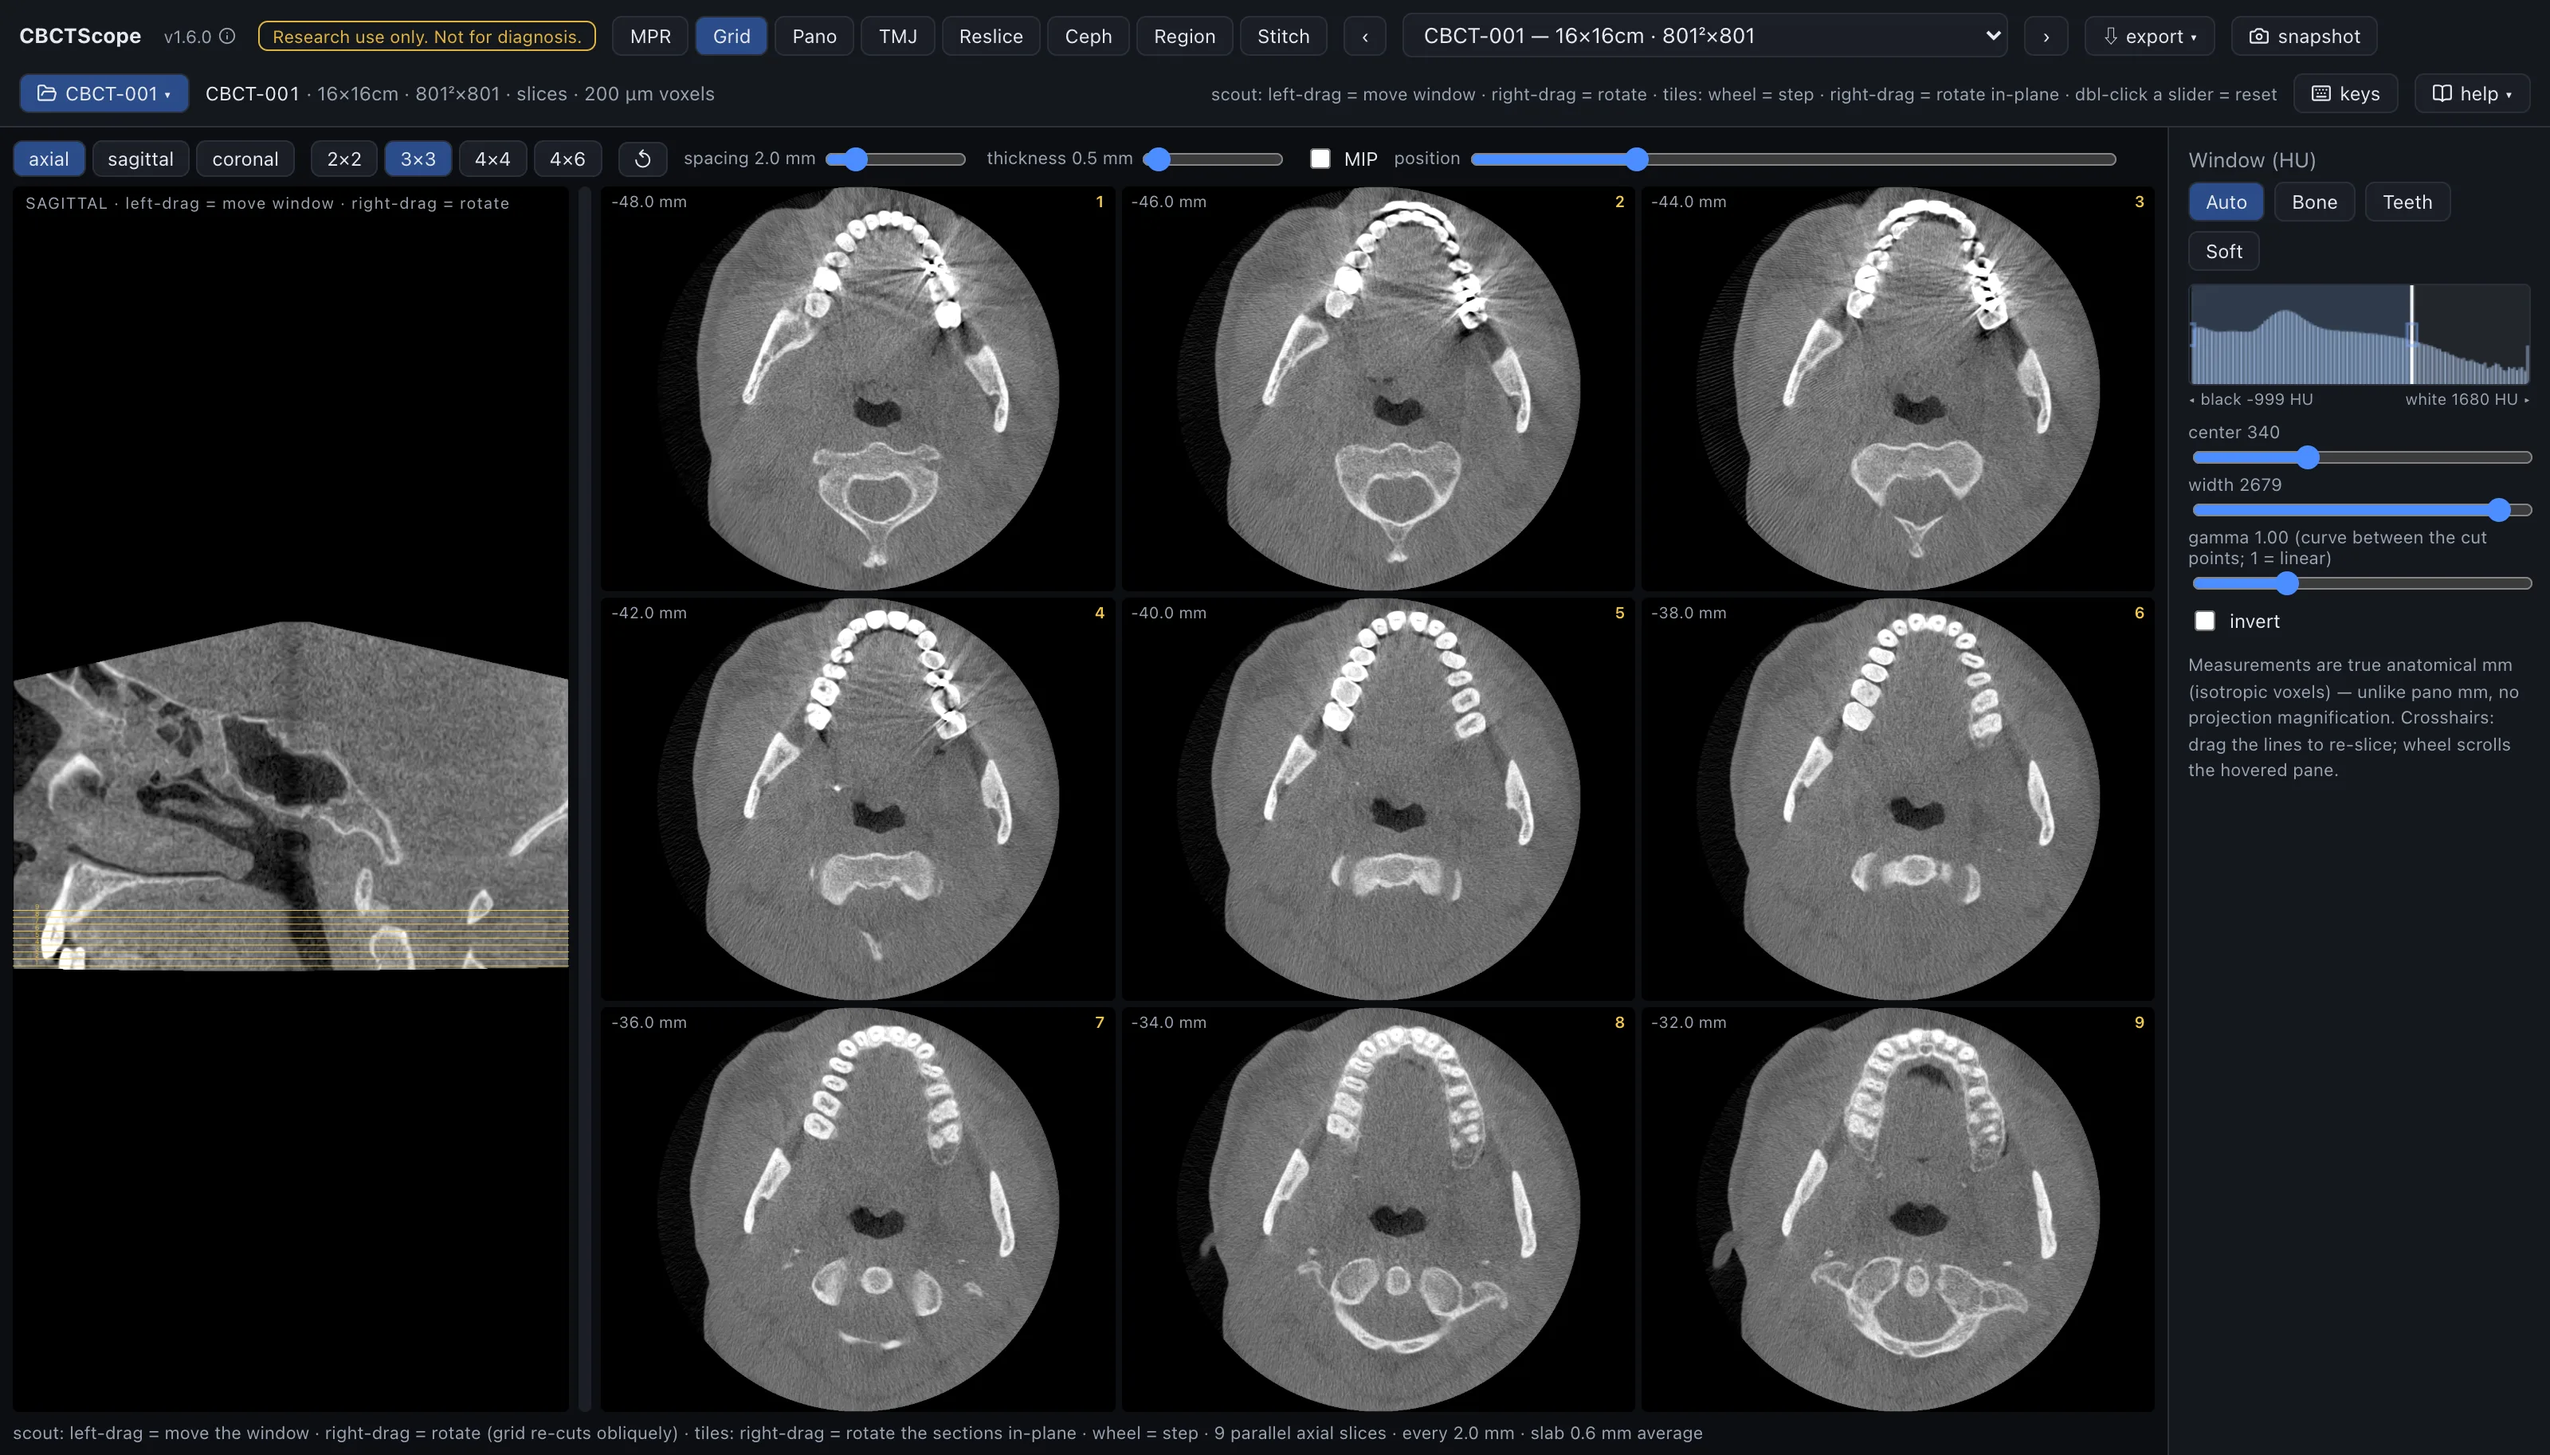
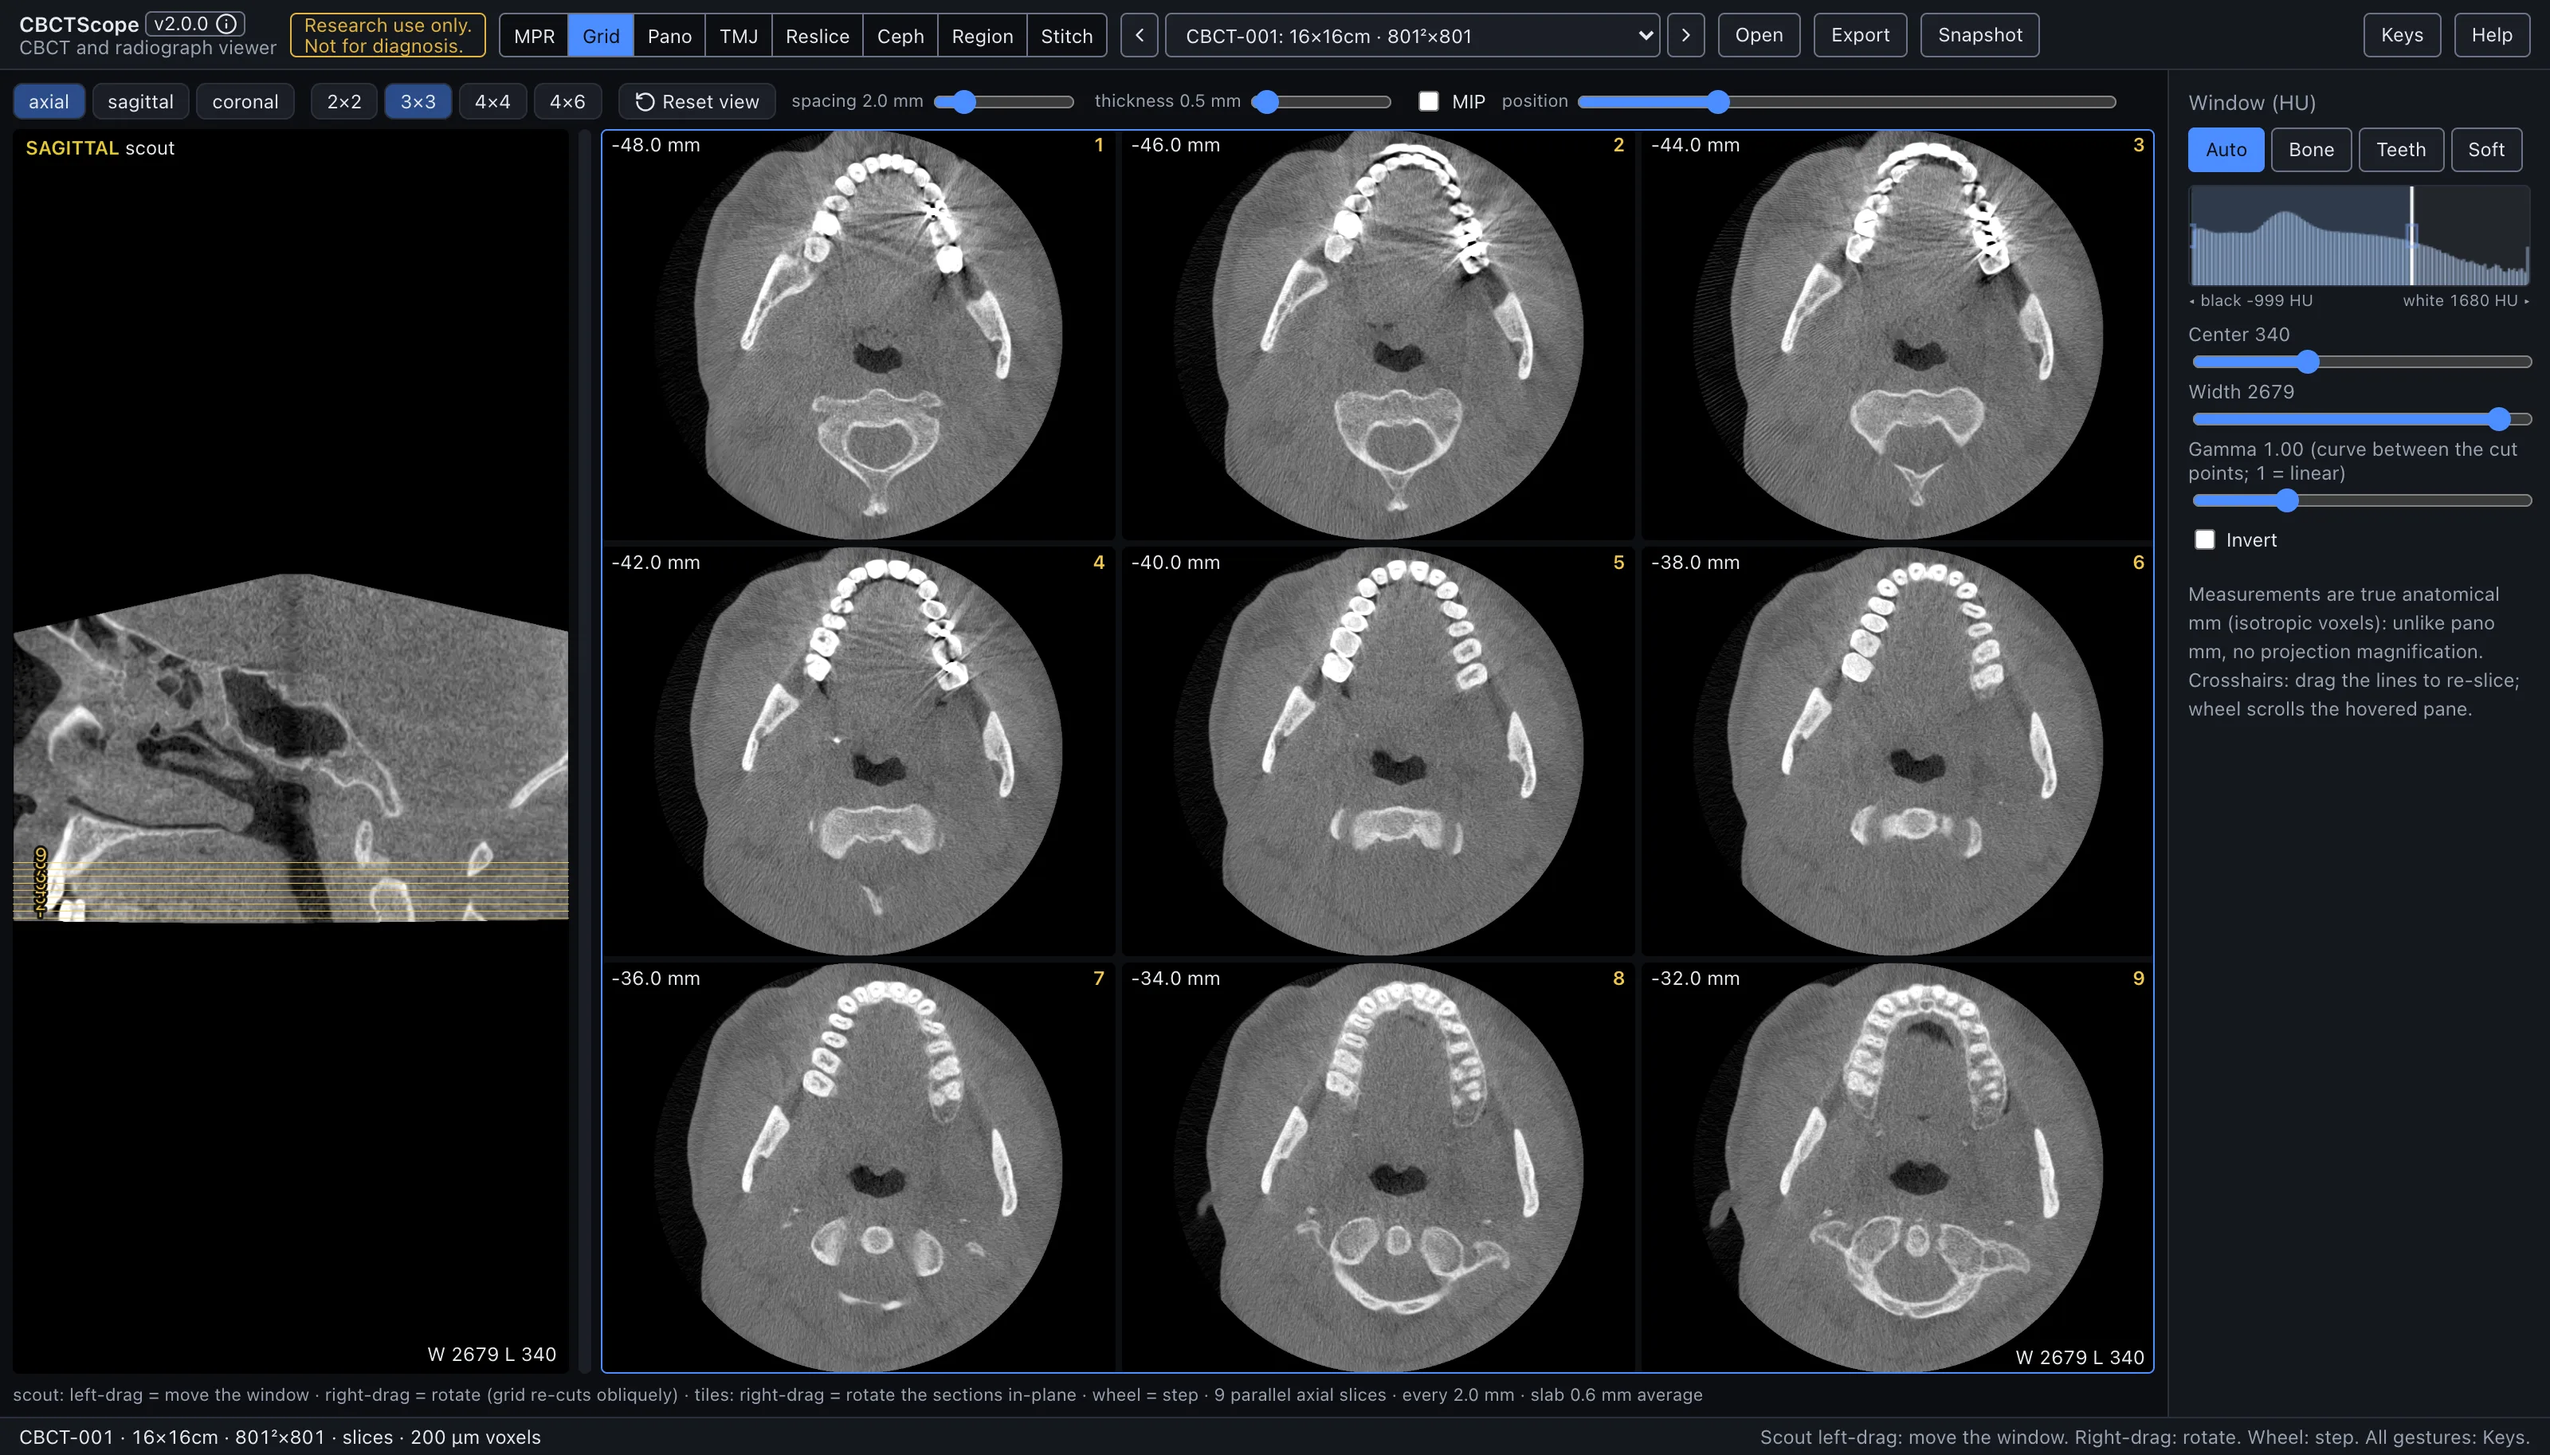
The manual's nine stills, the four README thumbnails and the agent GIF are recaptured on the redesigned interface, and manual-shots.mjs drives it by pane-relative image fractions and slice levels instead of screen pixels
The header still now carries callouts 1 to 9 above the controls of the one-row header,
clipped from the full layout so no pane overlay rises into it; chapter 3 says that Agent (10)
and the desktop download (11) appear only on the website and in the desktop app. The script
selects the params volume itself, runs Chrome incognito with the HTTP cache off (a profile's
disk cache stalled every request on macOS 27), sets the 3D pane to the bone Surface style at
the params threshold, and gains a measure plan. The ceph and stitch guides say the turn, nod
and offset show only once off zero; the README MPR thumbnail alt names the skull base. The
web budget is re-measured: the stills grew 30 KB.

Changed region(s): [[0.0, 0.0, 1.0, 0.9989], [0.25, 0.8428, 0.2812, 0.874], [0.25, 0.5931, 0.2812, 0.6243]]

diff --git a/tests/webBudget.test.ts b/tests/webBudget.test.ts
@@ -10,8 +10,12 @@ import { describe, expect, it } from 'vitest';
  * 13): 10_365_588 bytes, of which manual/ is 2_426_806 (its nine WebP stills about 2 MB). The
  * integration pass's figure, 7_791_978 with the real browser loader, is superseded; the pages
  * are a deliberate addition, so the budget moves with them.
+ *
+ * Re-measured 2026-11-11 after the manual's stills were recaptured on the redesigned interface
+ * (the nine WebP stills 2_120_310 bytes, up 30_564): 10_588_932 bytes, of which manual/ is
+ * 2_501_889.
  */
-const MEASURED = 10_365_588;
+const MEASURED = 10_588_932;
 const BUDGET = Math.round(MEASURED * 1.1);
 
 const out = path.join(process.cwd(), 'out');

diff --git a/README.md b/README.md
@@ -57,7 +57,7 @@ control; the neighboring projects, and how they differ, are under
 
 | MPR + 3D | Multi-slice grid | Curved panoramic | TMJ condyles |
 |---|---|---|---|
-| [![MPR: axial, sagittal, coronal and a bone 3D render, crosshairs on a molar, HU windowing, slab and MIP controls](docs/media/thumb-mpr.png)](docs/media/thumb-mpr.png) | [![Grid: nine parallel axial slices through the dentition with a sagittal scout, spacing and thickness controls](docs/media/thumb-grid.png)](docs/media/thumb-grid.png) | [![Pano: arch spline on the axial, curved panoramic of the arch, perpendicular cross-sections](docs/media/thumb-pano.png)](docs/media/thumb-pano.png) | [![TMJ: both condyles in axis-corrected sagittal sections, five per side, with the axis line drawn per condyle on the axial scout](docs/media/thumb-tmj.png)](docs/media/thumb-tmj.png) |
+| [![MPR: axial, sagittal, coronal and a bone 3D render, crosshairs at the skull base, the bone window, slab and MIP controls](docs/media/thumb-mpr.png)](docs/media/thumb-mpr.png) | [![Grid: nine parallel axial slices through the dentition with a sagittal scout, spacing and thickness controls](docs/media/thumb-grid.png)](docs/media/thumb-grid.png) | [![Pano: arch spline on the axial, curved panoramic of the arch, perpendicular cross-sections](docs/media/thumb-pano.png)](docs/media/thumb-pano.png) | [![TMJ: both condyles in axis-corrected sagittal sections, five per side, with the axis line drawn per condyle on the axial scout](docs/media/thumb-tmj.png)](docs/media/thumb-tmj.png) |
 
 *The four stills above are a real CBCT: a 16×16cm, 200 µm Planmeca ProMax
 volume, shown with the written consent of the patient and de-identified before

diff --git a/docs/manual/03-interface.md b/docs/manual/03-interface.md
@@ -8,11 +8,13 @@ close on its answer.
 
 ## 3.1 The header
 
-![The header on the built-in phantom, numbered left to right: the name and what it is, the version button, the research-use badge, the mode tabs, the volume list, Open, Export, Snapshot, Keys, Help, and Agent](../media/manual/header.webp)
+![The header of the local app on the built-in phantom, numbered 1 to 9 left to right: the name with what it is and the version button, the research-use badge, the mode tabs, the volume list, Open, Export, Snapshot, Keys, and Help](../media/manual/header.webp)
 
 The header is one row on a wide screen and wraps onto a second row, whole
-groups at a time, when the window is narrower than its controls. From left to
-right:
+groups at a time, when the window is narrower than its controls. The still
+shows the local app, so it carries callouts 1 to 9; Agent (10) and the desktop
+download (11) join them on the website and, for Agent, in the desktop app. From
+left to right:
 
 1. **CBCTScope**, with what it is under the name:
    **CBCT and radiograph viewer**. Beside it, the **version button** (for example `v2.0.0`).

diff --git a/docs/manual/README.md b/docs/manual/README.md
@@ -34,5 +34,12 @@ phantom with the numbered callouts that match the list in chapter 3;
 `mode-<mode>.webp` shows each mode on the consented, de-identified real CBCT
 that the README stills also use (AGENTS.md hard rule 3: bone-only 3D, the
 cephalogram as densest-only MIP so no soft-tissue profile is projected). The
-script's header at the top documents the run. Recapture after any change to
-the header or to a mode's layout, in the same commit as the change.
+script's header at the top documents the run. The per-volume parameters for
+the real CBCT live beside that volume, outside the repo, in
+`manual-shots-v2.json` (`--params`). They hold no screen coordinates: slice
+levels are the pane's own count, and every point is a fraction of the image in
+a numbered pane (`node scripts/manual-shots.mjs measure` lists the panes), so
+a layout change needs no recalibration. The older `manual-shots.json` beside
+it carries CSS pixels of the v1.6 layout and no longer fits the script.
+Recapture after any change to the header or to a mode's layout, in the same
+commit as the change.

diff --git a/docs/reading-modes/ceph.md b/docs/reading-modes/ceph.md
@@ -37,7 +37,7 @@ when you let go. The current turn and tilt are shown on the image.
 
 | Control | Options or range | What it does |
 |---|---|---|
-| Pane | the cephalogram | The projection's name and its turn and nod sit top left, the window bottom right. |
+| Pane | the cephalogram | The projection's name sits top left, followed by its turn and nod once either is off zero; the window reads bottom right. |
 | Projection presets | Lateral L, Lateral R, PA, AP | Lateral L is the profile looking from the left, Lateral R the profile looking from the right, PA the front (postero-anterior), AP the front (antero-posterior). Picking a preset zeroes the rotation sliders. |
 | MIP (densest-only) | checkbox | Unchecked, the projection is the average along each ray, the film-like look with every structure summed; checked, only the densest structure per ray survives, a bone-forward look. |
 | turn | -180 to 180 degrees | Rotation about the vertical axis. |

diff --git a/docs/reading-modes/stitch.md b/docs/reading-modes/stitch.md
@@ -34,7 +34,7 @@ volume is A; you pick B from the catalog.
 
 | Control | Options or range | What it does |
 |---|---|---|
-| Panes | axial, sagittal, coronal | Each shows its plane and the compared slice's offset top left and the window bottom right; the pane that takes the wheel carries a thin blue frame. |
+| Panes | axial, sagittal, coronal | Each shows its plane top left, followed by the compared slice's offset once you step off the centre, and the window bottom right; the pane that takes the wheel carries a thin blue frame. |
 | Volume picker | A (green), B (magenta) | A is the current volume; pick B from the same-patient candidates in the catalog. Fused volumes are excluded as inputs. |
 | auto align | button | Finds the best translation by maximizing density cross-correlation (an NCC hill-climb) over the overlap. |
 | auto + rotation | button | Also searches rotation; slower. |
